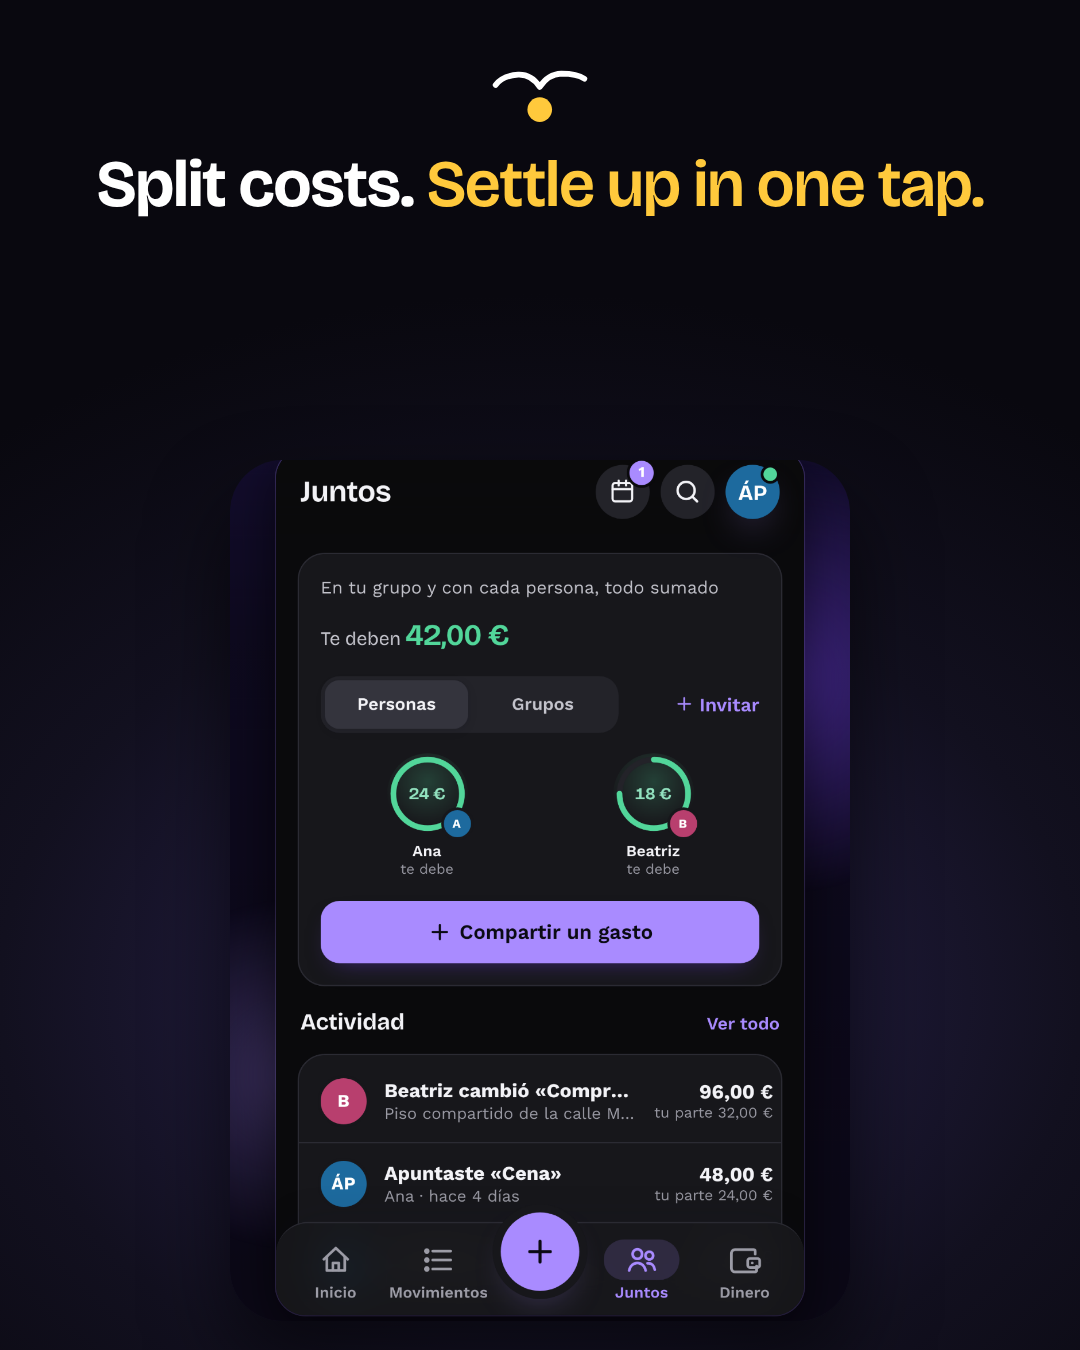
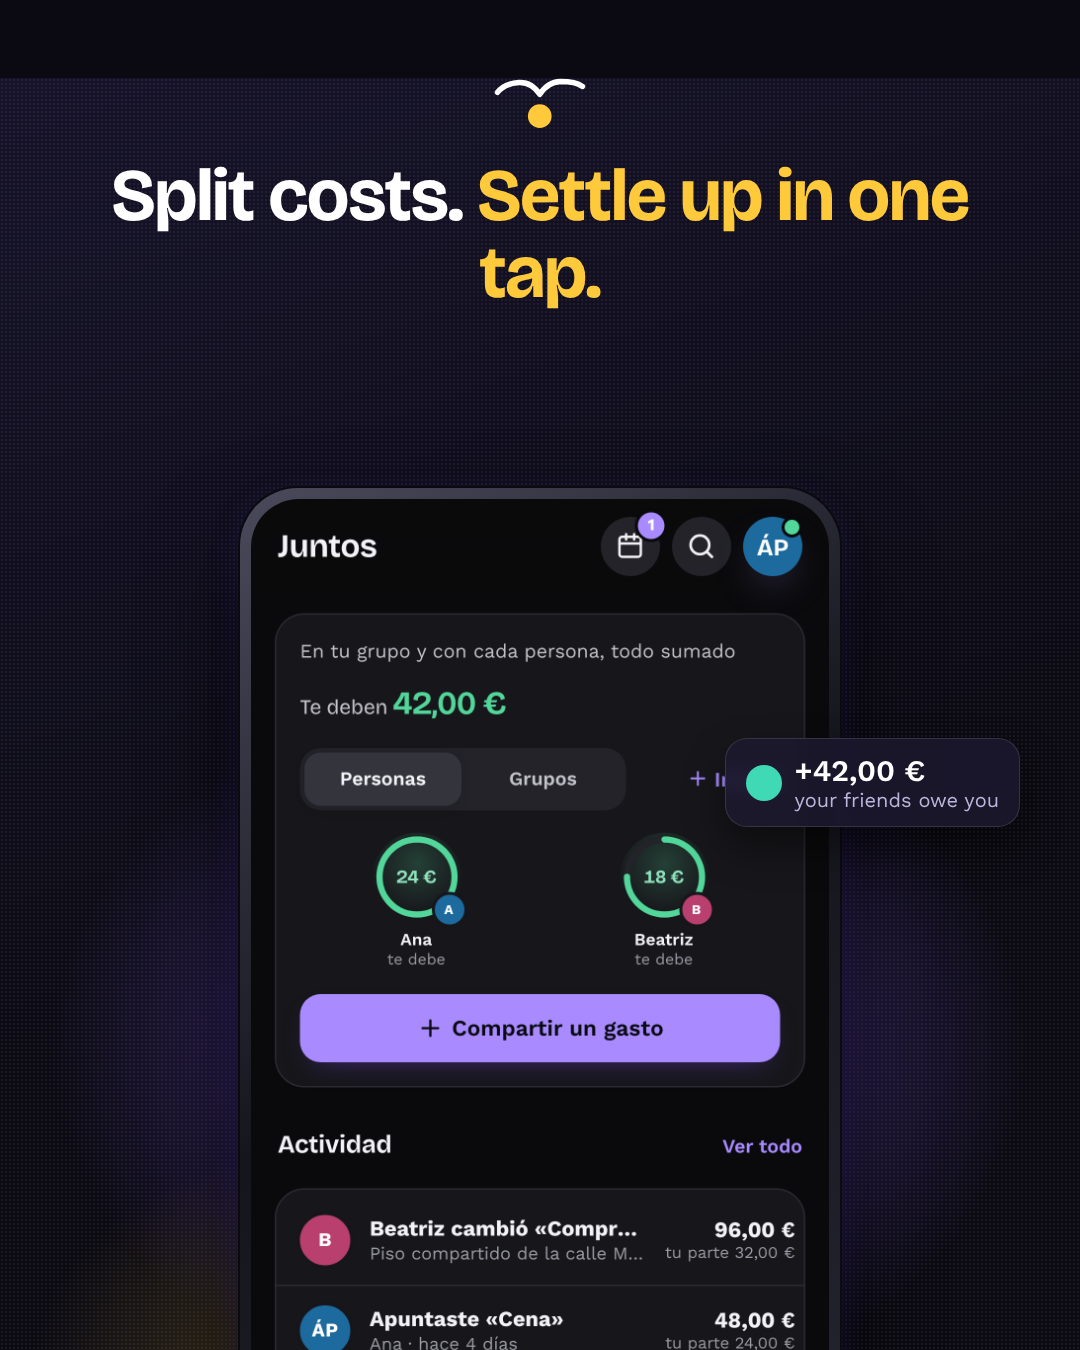
Marketing: imágenes de Reddit rehechas (capturas dentro de móviles, con luz y datos destacados)
Claude-Session: https://claude.ai/code/session_01EU8kPQfairHqFb6dPjchRM

diff --git a/docs/marketing/play/reddit/portada.html b/docs/marketing/play/reddit/portada.html
@@ -1,0 +1,22 @@
+<html><head><meta charset="utf-8"><link rel="stylesheet" href="file:///home/claude/urlife/fonts/fonts.css"><link rel="stylesheet" href="comun.css"><style>
+body{width:1600px;height:900px}.fondo{--gx:74%;--gy:52%;--ox:66%;--oy:92%}
+.izq{position:absolute;left:96px;top:150px;width:640px}
+.marca{width:140px;margin-bottom:26px}
+h1{font-size:92px;line-height:1}h2{font-weight:500;font-size:42px;line-height:1.15;margin:18px 0 30px;color:#ebe7ff}
+ul{list-style:none;padding:0;margin:0;font-size:25px;line-height:1.8;color:#cfcbe6}
+ul li:before{content:"";display:inline-block;width:10px;height:10px;border-radius:50%;background:#FFC93C;margin-right:14px;vertical-align:4px}
+.tag{margin-top:34px;display:inline-block;background:#FFC93C;color:#16131f;font-weight:700;font-size:23px;padding:13px 24px;border-radius:40px}
+.escena{position:absolute;left:780px;top:0;width:820px;height:900px;perspective:1800px}
+.t1{width:300px;left:40px;top:200px;transform:rotateY(18deg) rotateZ(-3deg);opacity:.92}
+.t3{width:300px;left:470px;top:200px;transform:rotateY(-18deg) rotateZ(3deg);opacity:.92}
+.t2{width:350px;left:230px;top:96px;z-index:2}
+.p1{left:20px;top:690px;z-index:3}.p2{left:560px;top:120px;z-index:3}
+</style></head><body><div class="fondo"></div><div class="grano"></div>
+<div class="izq"><img class="marca" src="file:///tmp/qa-logo-integrado/marca/paloma-blanco.svg"><h1>PalomApp</h1>
+<h2>Your money and <span class="oro">what you share</span> with your partner, flatmates &amp; friends</h2>
+<ul><li>Log an expense in two taps — or snap the receipt</li><li>Split costs and settle up in one tap</li><li>Savings goals, budgets &amp; shared plans</li></ul>
+<div class="tag">Looking for Android testers · I test back!</div></div>
+<div class="escena"><div class="tel t1"><img src="file:///tmp/crudas/juntos.png"></div><div class="tel t2"><img src="file:///tmp/crudas/inicio.png"></div><div class="tel t3"><img src="file:///tmp/crudas/metas.png"></div>
+<div class="pill p1"><i></i><div>+42,00 €<small>Ana &amp; Beatriz owe you</small></div></div>
+<div class="pill p2"><i style="background:#8B63FF"></i><div>25 %<small>Emergency fund</small></div></div></div>
+</body></html>

diff --git a/docs/marketing/play/reddit/comun.css b/docs/marketing/play/reddit/comun.css
@@ -1,0 +1,19 @@
+@font-face{font-family:Brico;src:url(file:///home/claude/urlife/fonts/bricolage-grotesque.woff2)}
+*{box-sizing:border-box}
+body{margin:0;color:#fff;font-family:'Work Sans';overflow:hidden;position:relative;background:#0b0a12}
+.fondo{position:absolute;inset:0;background:
+ radial-gradient(700px 520px at var(--gx,72%) var(--gy,55%),rgba(124,82,240,.55),transparent 70%),
+ radial-gradient(420px 320px at var(--ox,80%) var(--oy,85%),rgba(255,201,60,.22),transparent 70%),
+ linear-gradient(160deg,#16132a 0%,#0b0a12 60%)}
+.grano{position:absolute;inset:0;opacity:.06;background-image:radial-gradient(#fff 1px,transparent 1px);background-size:4px 4px}
+.tel{position:absolute;border-radius:58px;padding:11px;background:linear-gradient(145deg,#4a4a5c,#15151d 40%,#2b2b38);
+ box-shadow:0 0 0 2px #0a0a0f,0 50px 90px rgba(0,0,0,.65),0 10px 30px rgba(80,50,200,.25)}
+.tel img{display:block;width:100%;border-radius:48px}
+
+.marca{display:block}
+h1,h2{font-family:Brico;letter-spacing:-.02em;margin:0}
+.oro{color:#FFC93C}
+.pill{position:absolute;display:flex;align-items:center;gap:12px;background:rgba(28,24,48,.82);backdrop-filter:blur(10px);border:1px solid rgba(255,255,255,.12);border-radius:22px;padding:14px 20px;font-weight:600;font-size:24px;box-shadow:0 20px 40px rgba(0,0,0,.45)}
+.pill i{width:30px;height:30px;border-radius:50%;background:#FFC93C;display:inline-block}
+.pill small{display:block;font-weight:400;font-size:17px;color:#bdb6dc}
+.marca,h1{position:relative;z-index:1}

diff --git a/docs/marketing/play/reddit/c2.html b/docs/marketing/play/reddit/c2.html
@@ -1,0 +1,9 @@
+<html><head><meta charset="utf-8"><link rel="stylesheet" href="file:///home/claude/urlife/fonts/fonts.css"><link rel="stylesheet" href="comun.css"><style>
+body{width:1080px;height:1350px;text-align:center}.fondo{--gx:50%;--gy:72%;--ox:30%;--oy:96%}
+.marca{width:92px;margin:78px auto 28px}h1{font-size:74px;line-height:1.05;margin:0 90px}
+.tel{width:600px;left:240px;top:410px}
+.pill{right:60px;top:660px;text-align:left;font-size:30px}.pill small{font-size:20px}.pill i{width:36px;height:36px}
+</style></head><body><div class="fondo"></div><div class="grano"></div>
+<img class="marca" src="file:///tmp/qa-logo-integrado/marca/paloma-blanco.svg"><h1>See where <span class="oro">your money goes</span></h1>
+<div class="tel"><img src="file:///tmp/crudas/mov-gastas.png"></div>
+<div class="pill"><i style="background:#8B63FF"></i><div>1.000,64 €<small>spent this month</small></div></div></body></html>
